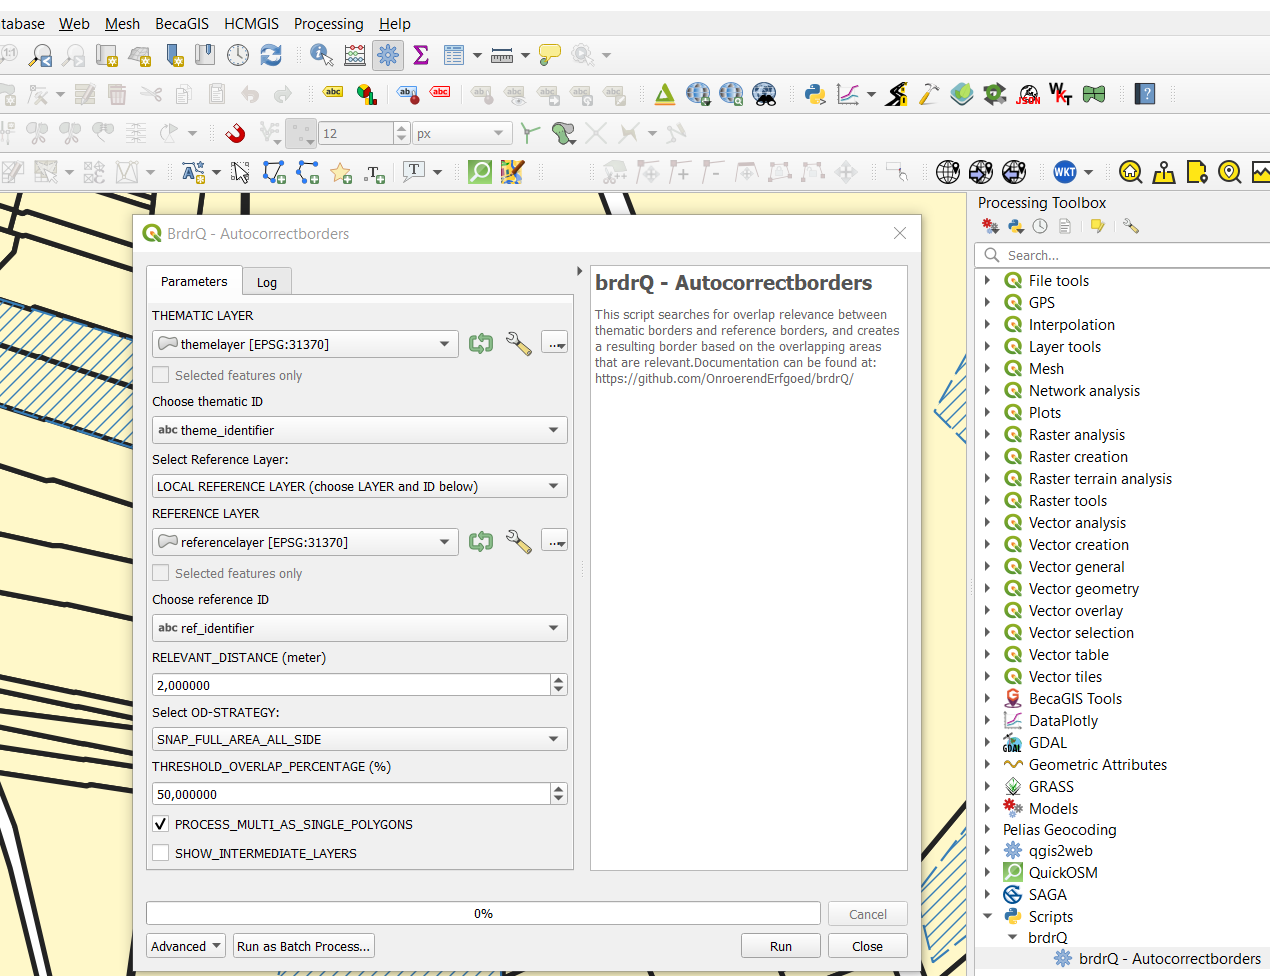
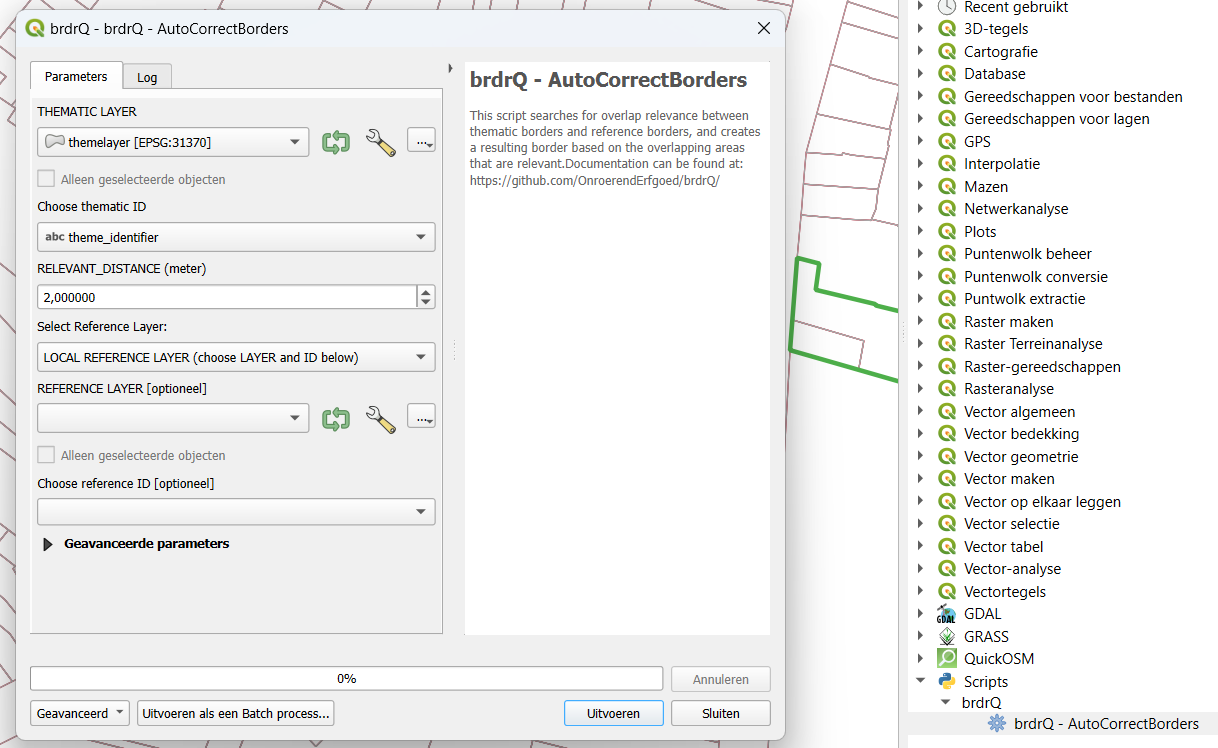
updated docs

diff --git a/README.md b/README.md
@@ -70,7 +70,7 @@ screen will close automatically after installation.)
 
  <img src="docs/figures/installation-step-4.png" width="100%" />
 
-## Getting started (example)
+## Getting started (Quickstart)
 
 <img src="docs/figures/input.png" width="100%" />
 
@@ -78,8 +78,7 @@ To start the calculation, the following steps are sufficient:
 
 - a theme layer ((MULTI)POLYGON - EPSG:31370 or EPSG:3812) with corresponding unique ID
 - a reference layer ((MULTI)POLYGON - EPSG:31370 or EPSG:3812) with corresponding unique ID
-- a RELEVANT_DISTANCE (relevant distance)
-- A public-domain strategy
+- a RELEVANT_DISTANCE (relevant distance, default 2 meters)
 
 ==>CLICK 'RUN' : The tool processes the data and the output is created and displayed in the TOC of QGIS
 
@@ -102,10 +101,11 @@ limitations when using the script
     - REFERENCE LAYER: Local reference layer from the TOC with the geometries you want to use as a reference (e.g., GRB - administrative
       parcels)
     - REFERENCE ID: Textual or numeric ID of the reference layer used as a reference to the objects. This must be unique.
-  - ADP: (on-the-fly download) -
-  - GBG: (on-the-fly download) - 
-  - KNW: (on-the-fly download) -
-  - Adpf20xx: (on-the-fly download) -
+  - ADP: (on-the-fly download) - Actual administrative parcels from GRB (Grootschalig Referentie Bestand)
+  - GBG: (on-the-fly download) - Actual buildings from GRB
+  - KNW: (on-the-fly download) - Actual artwork from GRB
+  - Adpf20xx: (on-the-fly download) - Fiscal versions of the administrative parcels of GRB
+  - (Note: the on-the-fly downloads are only possible for a subset or small area of thematic objects as this results in downloading this reference-area. When using brdrQ for bigger areas a local reference layer is necessary)
 
 
 ### ADVANCED INPUT PARAMETERS
